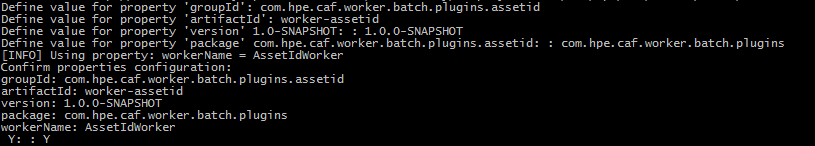
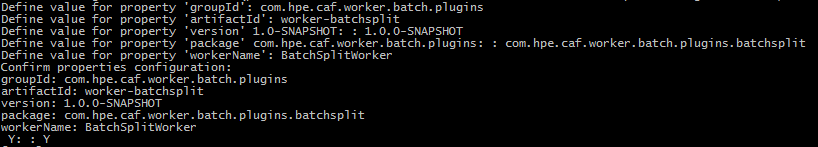
CAF-2257 Batch worker that the archetype now generates is called Batch split. Improved links through to other docs. (#2)
* Caf 1700 opensourcing (#12)

* CAF-2257: Archetype defaults now set to worker-batchsplit naming, corrected defaulting of workerName prop and changes the name of the batchDefinition strings within array from reference to content.

* Removed reference to RH7 as repo to get archetype from and corrected incorrect URL to batch worker readme

* Made adjustments to the readability of the guide based upon Connor's feedback

Changed region(s): [[0.0, 0.0, 0.9816, 0.9863]]

diff --git a/worker-batch-archetype/src/main/resources/archetype-resources/__rootArtifactId__-batch-plugin/src/test/java/__workerName__BatchPluginTest.java b/worker-batch-archetype/src/main/resources/archetype-resources/__rootArtifactId__-batch-plugin/src/test/java/__workerName__BatchPluginTest.java
@@ -33,16 +33,16 @@ public class ${workerName}BatchPluginTest
     public void testSimpleBatch() throws JsonProcessingException, BatchDefinitionException
     {
         Collection<TaskMessage> constructedTaskMessages = new ArrayList<>();
-        ArrayList<String> testReferences = createReferencesList("aa", "bb", "cc", "esgesges/adawf");
+        ArrayList<String> testContents = createContentsList("aa", "bb", "cc", "esgesges/adawf");
         int expectedSubBatchCount = 6;
 
         testWorkerServices = createTestBatchWorkerServices(constructedTaskMessages);
 
-        String referenceFieldNameParamKey = "referenceFieldName";
-        String referenceFieldNameParamValue = "REFERENCE";
+        String contentFieldNameParamKey = "contentFieldName";
+        String contentFieldNameParamValue = "CONTENT";
         testTaskMessageParams = createTaskMessageParams(
-                new AbstractMap.SimpleEntry<>(referenceFieldNameParamKey, referenceFieldNameParamValue));
-        String batchDefinition = mapper.writeValueAsString(testReferences);
+                new AbstractMap.SimpleEntry<>(contentFieldNameParamKey, contentFieldNameParamValue));
+        String batchDefinition = mapper.writeValueAsString(testContents);
         taskMessageType = "DocumentMessage";
 
         ${workerName}BatchPlugin plugin = new ${workerName}BatchPlugin();
@@ -53,8 +53,8 @@ public class ${workerName}BatchPluginTest
                 expectedSubBatchCount, subBatchCount);
 
         // Verify that expected number of messages were registered
-        Assert.assertEquals("Expecting same number of task messages generated as references we had on batch " +
-                "definition.", testReferences.size(), constructedTaskMessages.size());
+        Assert.assertEquals("Expecting same number of task messages generated as contents we had in batch " +
+                "definition.", testContents.size(), constructedTaskMessages.size());
 
         for(TaskMessage returnedMessage: constructedTaskMessages){
             checkClassifierAndApiVersion(returnedMessage);
@@ -62,15 +62,15 @@ public class ${workerName}BatchPluginTest
             DocumentWorkerTask returnedTaskData = (DocumentWorkerTask) returnedMessage.getTaskData();
             Assert.assertNotNull("Expecting task data returned to not be null.", returnedTaskData);
 
-            String returnedReferenceFieldDocumentWorkerFieldValueData =
-                    returnedTaskData.fields.get(referenceFieldNameParamValue).get(0).data;
-            DocumentWorkerFieldEncoding returnedReferenceFieldDocumentWorkerFieldValueEncoding =
-                    returnedTaskData.fields.get(referenceFieldNameParamValue).get(0).encoding;
+            String returnedContentFieldDocumentWorkerFieldValueData =
+                    returnedTaskData.fields.get(contentFieldNameParamValue).get(0).data;
+            DocumentWorkerFieldEncoding returnedContentFieldDocumentWorkerFieldValueEncoding =
+                    returnedTaskData.fields.get(contentFieldNameParamValue).get(0).encoding;
 
             Assert.assertEquals("Expected encoding to be set to utf8", DocumentWorkerFieldEncoding.utf8,
-                    returnedReferenceFieldDocumentWorkerFieldValueEncoding);
-            Assert.assertTrue("Expecting the reference value to be the reference on the batch definition we passed " +
-                    "in.", testReferences.contains(returnedReferenceFieldDocumentWorkerFieldValueData));
+                    returnedContentFieldDocumentWorkerFieldValueEncoding);
+            Assert.assertTrue("Expecting the content value to be the content on the batch definition we passed " +
+                    "in.", testContents.contains(returnedContentFieldDocumentWorkerFieldValueData));
         }
     }
 
@@ -82,13 +82,13 @@ public class ${workerName}BatchPluginTest
                 DocumentWorkerConstants.WORKER_NAME, returnedMessage.getTaskClassifier());
     }
 
-    private ArrayList<String> createReferencesList(String... references)
+    private ArrayList<String> createContentsList(String... contents)
     {
-        ArrayList<String> testReferences = new ArrayList<>();
-        for(String reference: references){
-            testReferences.add(reference);
+        ArrayList<String> testContents = new ArrayList<>();
+        for(String content: contents){
+        testContents.add(content);
         }
-        return testReferences;
+        return testContents;
     }
 
     private Map<String, String> createTaskMessageParams(Map.Entry<String, String>... entries)

diff --git a/worker-batch-archetype/src/main/resources/archetype-resources/__rootArtifactId__-batch-plugin/src/main/java/__workerName__BatchPlugin.java b/worker-batch-archetype/src/main/resources/archetype-resources/__rootArtifactId__-batch-plugin/src/main/java/__workerName__BatchPlugin.java
@@ -29,29 +29,29 @@ public class ${workerName}BatchPlugin implements BatchWorkerPlugin
         throws BatchDefinitionException
     {
         // Expecting batch definition to be in the form of a serialized json array of string values.
-        final String[] references;
+        final String[] contents;
         try {
-            references = mapper.readValue(batchDefinition, String[].class);
+            contents = mapper.readValue(batchDefinition, String[].class);
         } catch (IOException e) {
             // Failed to process the batch
-            throw new BatchDefinitionException("Unable to convert batch definition to array of references.", e);
+            throw new BatchDefinitionException("Unable to convert batch definition to array of contents.", e);
         }
-        if (references == null || references.length == 0) {
-            throw new BatchDefinitionException("No asset ids passed in on batch definition.");
+        if (contents == null || contents.length == 0) {
+            throw new BatchDefinitionException("No contents passed in on batch definition.");
         }
 
         if (!Objects.equals(taskMessageType, "DocumentMessage")) {
             throw new BatchDefinitionException("Unknown Task Message Type: " + taskMessageType);
         }
 
-        //  Get reference length as we intend to split the list into sub-batches.
-        final int referencesLength = references.length;
+        //  Get content length as we intend to split the list into sub-batches.
+        final int contentsLength = contents.length;
 
-        if (referencesLength > 1) {
+        if (contentsLength > 1) {
 
             //  Split the list and create sub-batches.
-            final String[] subBatchArrayA = Arrays.copyOfRange(references, 0, referencesLength/2);
-            final String[] subBatchArrayB = Arrays.copyOfRange(references, (referencesLength/2), referencesLength);
+            final String[] subBatchArrayA = Arrays.copyOfRange(contents, 0, contentsLength/2);
+            final String[] subBatchArrayB = Arrays.copyOfRange(contents, (contentsLength/2), contentsLength);
 
             final String subBatchArrayAString;
             final String subBatchArrayBString;
@@ -65,23 +65,23 @@ public class ${workerName}BatchPlugin implements BatchWorkerPlugin
             batchWorkerServices.registerBatchSubtask(subBatchArrayAString);
             batchWorkerServices.registerBatchSubtask(subBatchArrayBString);
         } else {
-            for (final String reference : references) {
+            for (final String content : contents) {
                 // Build a Document Worker Task Message that contains taskData 
-                // containing a field with the reference to the item
+                // containing a field with the content to the item
                 final DocumentWorkerTask taskData = new DocumentWorkerTask();
                 taskData.fields = new HashMap<>();
 
-                final DocumentWorkerFieldValue referenceFieldValue = new DocumentWorkerFieldValue();
-                referenceFieldValue.data = reference;
-                referenceFieldValue.encoding = DocumentWorkerFieldEncoding.utf8;
+                final DocumentWorkerFieldValue contentFieldValue = new DocumentWorkerFieldValue();
+                contentFieldValue.data = content;
+                contentFieldValue.encoding = DocumentWorkerFieldEncoding.utf8;
 
-                String referenceFieldName = taskMessageParams.get("referenceFieldName");
-                // If the name of the field was not specified in the task message params, default to STORAGE_REFERENCE
-                if (referenceFieldName == null) {
-                    referenceFieldName = "storageReference";
+                String contentFieldName = taskMessageParams.get("contentFieldName");
+                // If the name of the field was not specified in the task message params, default to CONTENT
+                if (contentFieldName == null) {
+                    contentFieldName = "CONTENT";
                 }
 
-                taskData.fields.put(referenceFieldName, Arrays.asList(referenceFieldValue));
+                taskData.fields.put(contentFieldName, Arrays.asList(contentFieldValue));
 
                 // Register item to send with BatchWorkerServices
                 batchWorkerServices.registerItemSubtask(DocumentWorkerConstants.WORKER_NAME,

diff --git a/worker-batch-archetype/documentation/WorkerArchetypeUsage.md b/worker-batch-archetype/documentation/WorkerArchetypeUsage.md
@@ -2,8 +2,8 @@
 
 ## Prerequisites
 
-- Refer to the correct Maven Settings found
-[here](https://github.hpe.com/caf/caf-development/tree/master/environment/maven-settings).
+The following are prerequisite components required for the generation of a Batch Worker project from the archetype:
+
 - Maven
 - Docker VM
 - IntelliJ (Optional)
@@ -11,46 +11,54 @@
 
 ## Introduction
 
+This is a guide on how to use the `worker-batch-archetype` to generate a Batch Worker project that contains plugin
+and container components. It covers archetype generation with Maven CLI, NetBeans and IntelliJ.
+
+### Batch Worker Overview
+
 Stateless Workers are microservices that can be scaled up or down to meet demand. In essence, a Worker should not be
 aware (or need to be aware) of any other Worker or its surrounding system. This way additional "clones" of a Worker can
 be created or destroyed at will to provide scaling without affecting other Workers.
 
-### Components of a Batch Worker
+Batch Workers are used to create and send multiple task messages to another worker.
 
-The following modules are required to create a Batch worker. Each contains its own pom.xml with its own dependencies
+When a Batch Worker receives a batch definition to process, it recursively breaks it down into smaller batches of work
+and then ultimately individual tasks, which are sent to a worker.
+
+### Project Generated from the Archetype
+
+The following project structure is generated from the Batch Worker archetype. Each contains its own pom.xml with its own dependencies
 and plugins:
 
-**These modules are generated from the worker-batch-archetype:**
+**This project structure is generated from the worker-batch-archetype:**
+
 - `worker-<artifactId>` aggregator project that contains the following modules:
     - `worker-<artifactId>-batch-plugin` module contains the batch worker plugin.
-	    - **\<workerName>BatchPlugin** – responsible for doing the work. This class implements the BatchWorkerPlugin
+	    - **<workerName\>BatchPlugin** – responsible for doing the work. This class implements the BatchWorkerPlugin
 	interface.
     - `worker-<artifactId>-container` module is for building the Docker image of the worker and pushing the image to Docker.
 The module starts a container for RabbitMQ, webdav, test-configs, the worker and runs worker acceptance integration
 testcases.
-	    - **\<workerName>AcceptanceIT** – calls the `worker-batch-testing` dependency's BatchTestControllerProvider class
+	    - **<workerName\>AcceptanceIT** – calls the `worker-batch-testing` dependency's BatchTestControllerProvider class
 	to generate or run worker integration testing testcase files.
-	    - **pom.xml** – specifies the Docker Maven plugin configurations to build the image for the worker, and Maven
+	    - **pom.xml** – specifies the Docker Maven Plugin configurations to build the image for the worker, and Maven
 	compiler and failsafe plugin for compiling and running integration tests.
 
 ## Using the Batch Worker Archetype
 
 A Maven Archetype is a template which you can base a project on.
 
-Excerpt from
-[Apache Maven Archetype Introduction](https://maven.apache.org/guides/introduction/introduction-to-archetypes.html) :
+Excerpt from [Apache Maven Archetype Introduction](https://maven.apache.org/guides/introduction/introduction-to-archetypes.html) :
 
 <pre>"Archetype is a Maven project templating toolkit.
 An archetype is defined as an original pattern or model from which all other things of the same kind are made."</pre>
 
-### Maven Archetype for Batch Worker projects
-
-You can create the foundations of a new Batch Worker project by using the `worker-batch-archetype` project.
+You can create the foundations of a new Batch Worker project with the use of the `worker-batch-archetype` project.
 
 The generation of a new project from the Batch Worker Archetype will contain some basic functionality.
 
-It takes in a batch definition in the form of a JSON array and splits that into individual references to use in
-creating Document Worker Tasks.
+It takes in a batch definition in the form of a JSON array and splits that into sub batches which are then split into individual strings.
+A task message is created for each string and the string is used as the content that the downstream worker uses.
 
 ### Creating a new Batch Worker from Batch Worker Archetype
 
@@ -65,8 +73,7 @@ shared between its submodules:
 
 The following subsections provide instructions on how you can use Maven Command Line Interface (CLI),
 IntelliJ Integrated Development Environment (IDE) or NetBeans IDE to create the components of a Batch Worker from the
-Batch Worker Archetype. *Note: You must replace __WORKER-BATCH-ARCHETYPE-VERSION__ with a valid version of
-Worker-Batch-Archetype.*
+Batch Worker Archetype. *Note: You must replace __WORKER-BATCH-ARCHETYPE-VERSION__ with a valid version of `worker-batch-archetype`.*
 
 #### Maven CLI
 
@@ -76,7 +83,7 @@ command. The location where you run the command will be where the project is cre
 ##### Generate the New Batch Worker Aggregator
 
 Generate the new Batch Worker Aggregator from the `worker-batch-archetype` with the following Maven command:
-<pre>mvn archetype:generate -DarchetypeRepository=http://rh7-artifactory.svs.hpeswlab.net:8081/artifactory/hpe-mirror -DarchetypeVersion=WORKER-BATCH-ARCHETYPE-VERSION -DarchetypeArtifactId=worker-batch-archetype -DarchetypeGroupId=com.hpe.caf.worker.batch</pre>
+<pre>mvn archetype:generate -DarchetypeVersion=WORKER-BATCH-ARCHETYPE-VERSION -DarchetypeArtifactId=worker-batch-archetype -DarchetypeGroupId=com.hpe.caf.worker.batch</pre>
 
 The CLI will prompt you for artifactId, groupId, version (default suggestion is 1.0-SNAPSHOT), package (default suggestion is the
 groupId, you should however adjust this to include the worker's purpose) and workerName properties required for the new Batch Worker
@@ -106,19 +113,18 @@ Generate the new Batch Worker Aggregator from the `worker-batch-archetype` by fo
 	- GroupId : com.hpe.caf.worker.batch
 	- ArtifactId : worker-batch-archetype
 	- Version : *WORKER-BATCH-ARCHETYPE-VERSION*
-	- Repository : http://rh7-artifactory.svs.hpeswlab.net:8081/artifactory/hpe-mirror
 	- Click 'OK'
 - Select the added 'com.hpe.caf.worker.batch:worker-batch-archetype' archetype > Click 'Next'
 - Enter GroupId, ArtifactId and Version of your Worker project > Click 'Next', e.g:
 	- GroupId : com.hpe.caf.worker.batch.plugins
-	- ArtifactId : worker-assetid
+	- ArtifactId : worker-batchsplit
 	- Version : 1.0.0-SNAPSHOT
 - Add each of the following properties (Alt+Insert) and replace the example values with your project specific values > Click 'Next':
-	- package : com.hpe.caf.worker.batch.plugins.assetid
-	- workerName : AssetIdWorker
+	- package : com.hpe.caf.worker.batch.plugins.batchsplit
+	- workerName : BatchSplitWorker
 - Name the Project after its ArtifactId and specify the location of the project > Click 'Finish', e.g:
-	- Project name : worker-assetid
-	- Project location : C:\MyWorkerProjects\worker-assetid
+	- Project name : worker-batchsplit
+	- Project location : C:\MyWorkerProjects\worker-batchsplit
 
 The foundations for your new Batch Worker is now set up. The generated project will contain the following submodules:
 
@@ -139,16 +145,15 @@ Generate the new Batch Worker Aggregator from the `worker-batch-archetype` by fo
 	- GroupId : com.hpe.caf.worker.batch
 	- ArtifactId : worker-batch-archetype
 	- Version : *WORKER-BATCH-ARCHETYPE-VERSION*
-	- Repository : http://rh7-artifactory.svs.hpeswlab.net:8081/artifactory/hpe-mirror
 	- Click 'Next >'
 - Enter Project Name, Project Location, GroupId, Version and Package of your Worker project, e.g:
-	- Project Name : worker-assetid
+	- Project Name : worker-batchsplit
 	- Project Location : C:\MyWorkerProjects
 	- GroupId : com.hpe.caf.worker.batch.plugins
 	- Version : 1.0.0-SNAPSHOT
-	- Package : com.hpe.caf.worker.batch.plugins.assetid
+	- Package : com.hpe.caf.worker.batch.plugins.batchsplit
 - Set workerName property > Click 'Finish', e.g:
-	- workerName : AssetIdWorker
+	- workerName : BatchSplitWorker
 
 The foundations for your new Batch Worker is now set up. The generated project will contain the following submodules:
 

diff --git a/README.md b/README.md
@@ -33,8 +33,8 @@ The testing for the Batch Worker is defined [here](https://github.com/jobservice
 
 ### worker-batch-framework
 
-This project is used for centralizing dependency information for a Batch Worker. The project can be found in [worker-batch-framework](worker-batch-framework).
+This project is used for centralizing dependency information for a Batch Worker. The project can be found in [worker-batch-framework](https://github.com/jobservice/worker-batch/tree/develop/worker-batch-framework).
 
 ### worker-batch-archetype
 
-This repository is a Maven Archetype template for the generation of a generic Batch Worker project. Generation of a worker project with the Maven Archetype will produce a Batch Worker that splits references into messages. The project can be found in [worker-batch-archetype](worker-batch-archetype).
+This repository is a Maven Archetype template for the generation of a generic Batch Worker project. Generation of a worker project with the Maven Archetype will produce a Batch Worker that splits references into messages. The project can be found in [worker-batch-archetype](https://github.com/jobservice/worker-batch/tree/develop/worker-batch-archetype).

diff --git a/worker-batch-archetype/src/main/resources/archetype-resources/README.md b/worker-batch-archetype/src/main/resources/archetype-resources/README.md
@@ -1,3 +1,3 @@
 # ${rootArtifactId}-batch-plugin
 A batch worker plugin that takes in a batch definition in the form of a JSON array and splits that into individual
-document references to use in creating Document Worker Tasks.
+strings to use in creating Document Worker Tasks.
